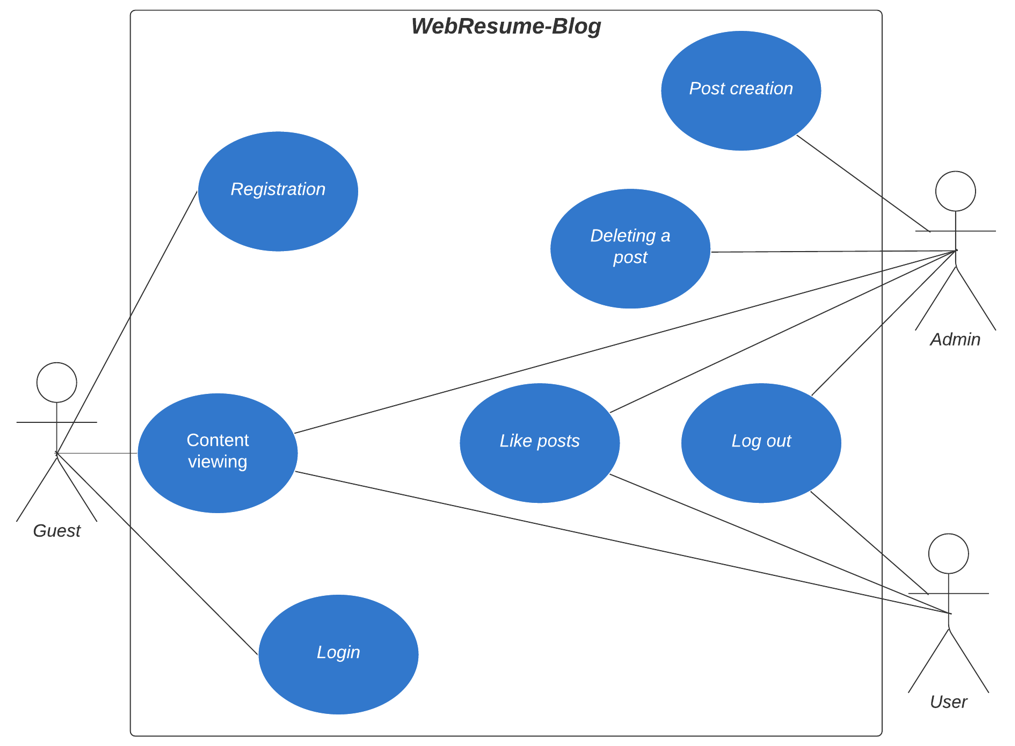
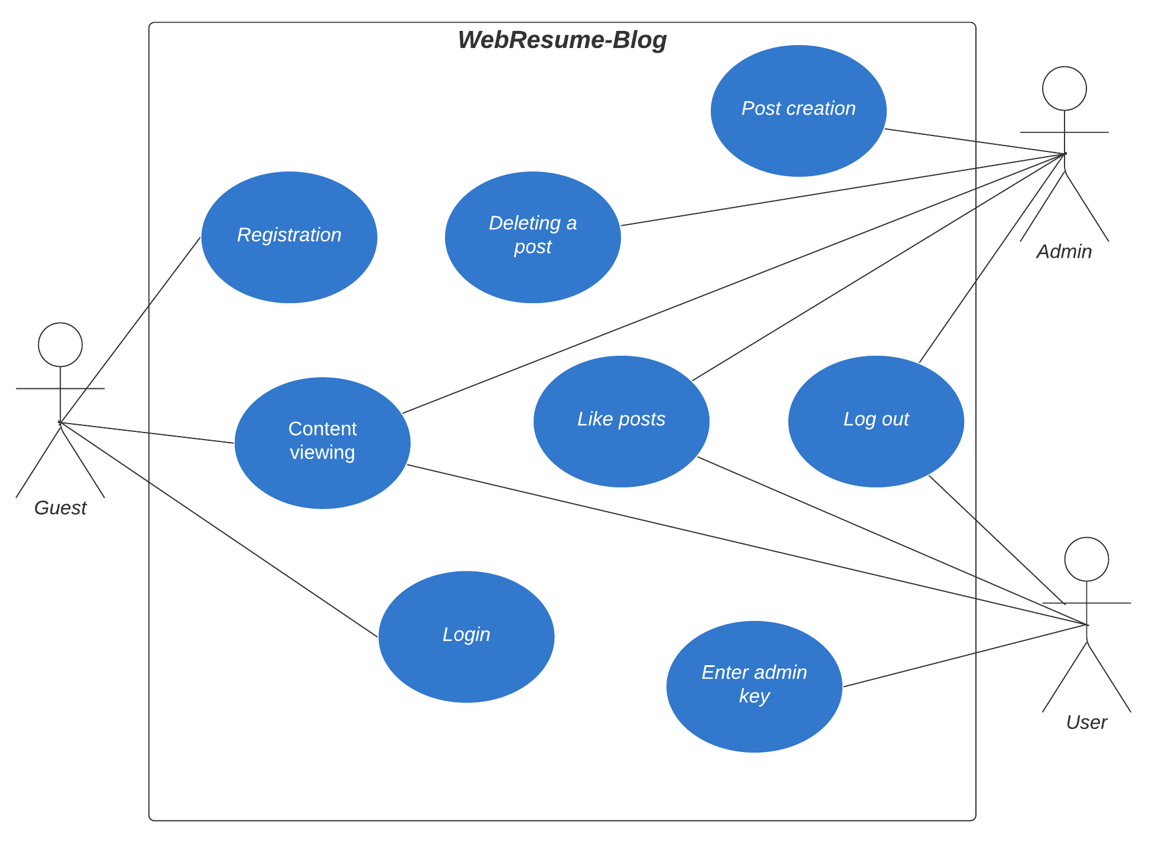
UseCases - Final Update

diff --git a/UseCases.MD b/UseCases.MD
@@ -8,4 +8,79 @@ Registered users who have the admin role can fully interact with this applicatio
 Registered users who do not have an admin role can only like posts. Regular visited sites that are not registered can view all the content on the site, but cannot edit or modify it.
 ### 2) Use Case Diagram
 
-![image](pictures/UseCases.png)
+![](pictures/UseCases.png)
+
+### 3) Use case specifications
+
+<table>
+  <tr>
+    <th>Use case</th>
+    <td>Registration</td>
+    <td>Login</td>
+    <td>Logout</td>
+    <td>Post creation</td>
+    <td>Deleting a post</td>
+    <td>Like posts</td>
+    <td>Entering admin key</td>
+  </tr>
+  <tr>
+    <th>Short description</th>
+    <td>This use case allows guests to register an account in the system.</td>
+    <td>This use case allows guests to login with their account in the system.</td>
+    <td>This use case allows users or admins logout from the system and become guest.</td>
+    <td>This use case allows admins create a posts with adding this in blog.</td>
+    <td>This use case allows admins to delete a posts.</td>
+    <td>This case allows actors to put likes on posts or remove them if they have already been settled.</td>
+    <td>This use case allows user enter a special key in the form to become an admin.</td>
+  </tr>
+  <tr>
+    <th>Actors</th>
+    <td>Guest</td>
+    <td>Guest</td>
+    <td>Admin, User</td>
+    <td>Admin</td>
+    <td>Admin</td>
+    <td>Admin, User</td>
+    <td>User</td>
+  </tr>
+  <tr>
+    <th>Preconditions</th>
+    <td>The guest knows what his username and password will be.</td>
+    <td>The guest knows what his username and password is.</td>
+    <td>Only have the appropriate role.</td>
+    <td>The admin knows what the post title and description will be.</td>
+    <td>The admin knows what the post or posts he wants to delete.</td>
+    <td>The actor knows on which post he wants to put or remove the like.</td>
+    <td>The user knows a special key</td>
+  </tr>
+  <tr>
+    <th>Main stream</th>
+    <td>The guest enter a username and password in the form, then clicks on the "register" button.</td>
+    <td>The guest enter a username and password in the form, then clicks on the "login" button.</td>
+    <td>Actor clicks on the logout button.</td>
+    <td>The admin enters a title and description into the form, and then clicks on the "create new post" button.</td>
+    <td>The post on the left image a button with a trash bucket, the admin clicks on it.</td>
+    <td>The actor clicks on the button with the image of a heart on the post he needs.</td>
+    <td>The user enters the key into the form and clicks on the button.</td>
+  </tr>
+  <tr>
+    <th>Alternate streams</th>
+    <td>If there is an account with the same username, the guest receives a message about it. Registration can be repeated again in the same window.</td>
+    <td>If the guest entered an incorrect username or password, information about this appears in the current window, the guest can repeat the second attempt to enter in the same window.</td>
+    <td>Absent</td>
+    <td>If the admin tries to send a post with an empty title, an error is thrown.</td>
+    <td>Absent</td>
+    <td>Absent</td>
+    <td>If the key is incorrect, then an error message will be displayed, the user can repeat the input in the same form.</td>
+  </tr>
+  <tr>
+    <th>Postconditions</th>
+    <td>After successful registration will be written in the current window "Success". Otherwise, there will be no changes.</td>
+    <td>After a successful login, the guest turns into an admin or user. Otherwise, nothing changes.</td>
+    <td>After clicking on the logout button, the actor is taken to the home page as a guest</td>
+    <td>After successful creation, the post appears on the page without refreshing the page, it will also have the creation date, author's username and the number of likes.</td>
+    <td>After clicking on the delete button, the post is deleted and disappears without refreshing the page. Otherwise, nothing happens.</td>
+    <td>After clicking on the button, the heart on the button turns red, if the like did not stand before, if it was before, then the red color changes to transparent with a black border.</td>
+    <td>If the key is successfully entered, a message appears stating that the user has become an administrator, now the administrator's roles are available to him. Otherwise, nothing changes.</td>
+  </tr>
+</table>
